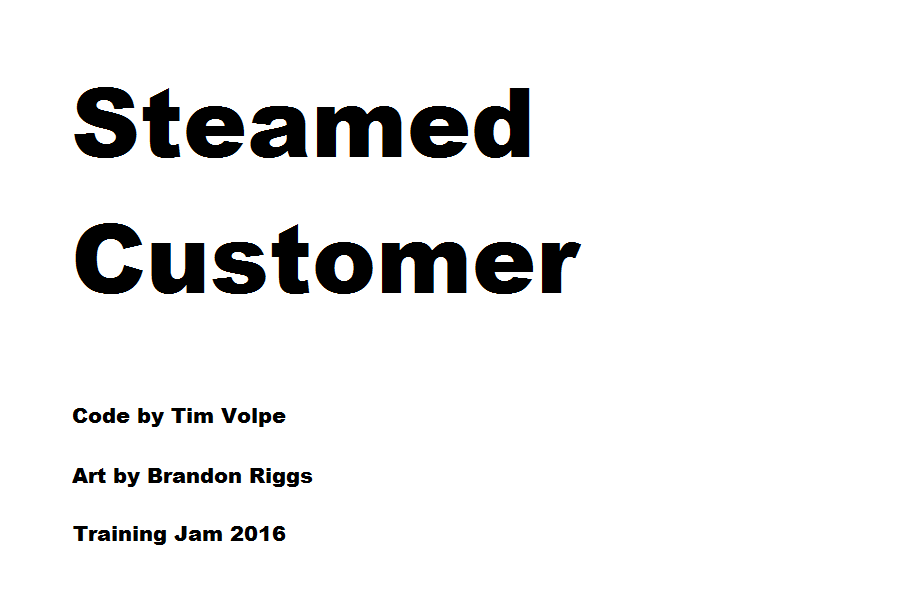
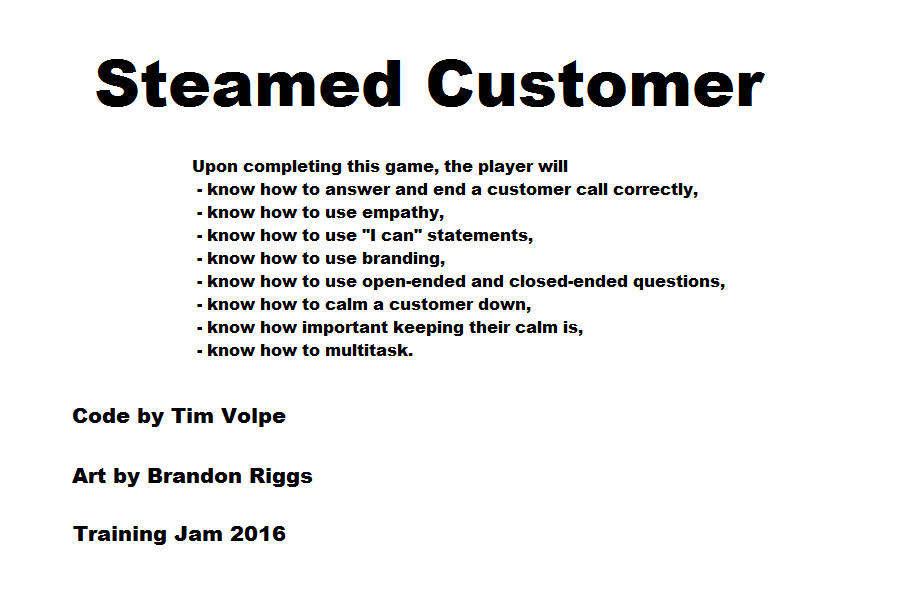
updated dialog script, added topics to title screen

Changed region(s): [[0.0622, 0.09, 0.8711, 0.6]]

diff --git a/SteamedCustomer/Assets/Scripts/CustomerDialog.cs b/SteamedCustomer/Assets/Scripts/CustomerDialog.cs
@@ -28,8 +28,8 @@ public class CustomerDialog : MonoBehaviour {
 	int emoLevel;
 	int currentScenario;
 	int lastScenario;
-	public int GameOverScenario = 4;
-	public int DelayScenario = 3;
+	public int GameOverScenario = 13;
+	public int DelayScenario = 12;
 
 
 	// Use this for initialization
@@ -153,7 +153,7 @@ public class CustomerDialog : MonoBehaviour {
 		if (currSen == DelayScenario)
 			csrResponse1.GetComponent<CSRResponseClick>().nextPrompt = lastScenario;
 
-		Debug.Log("Current Scenario = " + currentScenario);
+		//Debug.Log("Current Scenario = " + currentScenario);
 			
 	}
 

diff --git a/SteamedCustomer/Assets/Scripts/titleScript.cs b/SteamedCustomer/Assets/Scripts/titleScript.cs
@@ -6,7 +6,7 @@ public class titleScript : MonoBehaviour {
 
 	// Use this for initialization
 	void Start () {
-	
+		
 	}
 	
 	// Update is called once per frame
